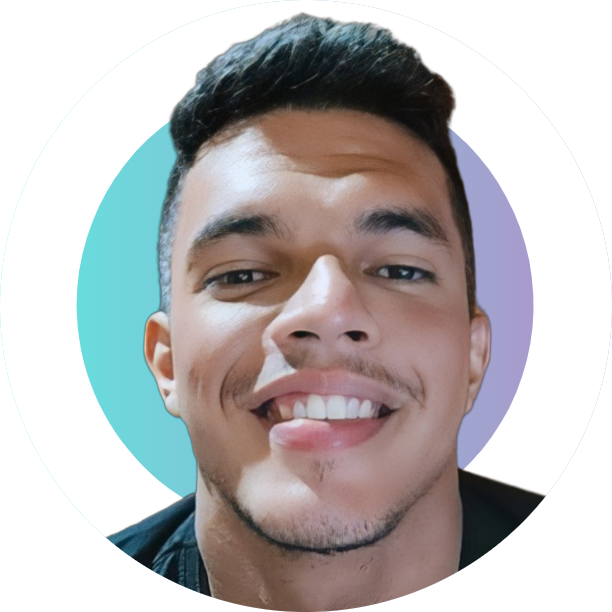
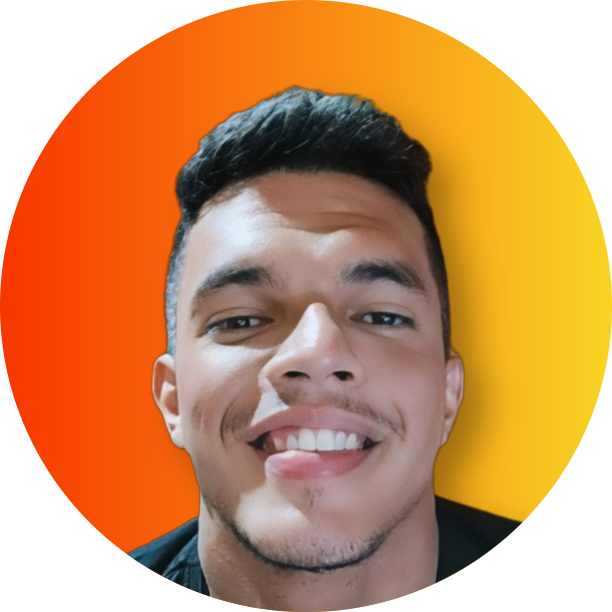
new layout

diff --git a/src/styles/global.css b/src/styles/global.css
@@ -13,12 +13,12 @@ body {
     align-items: center;
     justify-content: center;
     width: 100%;
-    height: 100vh;
-    background-image: radial-gradient(circle farthest-corner at 10% 20%, 
-    rgba(234, 249, 249, 0.67) 0.1%, rgba(239, 249, 251, 0.63) 90.1%);
+    background: rgb(25, 22, 33);
+    background: linear-gradient(90deg, rgba(25, 22, 33, 1) 0%, rgba(11, 10, 17, 1) 100%);
 }
 
 .containerSocialLinks {
+    margin-top: 2rem;
     display: flex;
     flex-direction: column;
     align-items: center;
@@ -31,19 +31,23 @@ body {
 .mainTitle {
     display: flex;
     flex-direction: column;
+    gap: 0.45rem;
     align-items: center;
     justify-content: center;
     margin-bottom: 3rem;
 }
 
 .mainTitle img {
+
+    width: 230px;
+
     @media (max-width: 480px) {
-        width: 200px;
+        width: 150px;
     }
 }
 
 .mainTitle h1 {
-    background: linear-gradient(to right, #A49FCD, #6ED6DB);
+    background: linear-gradient(to right, #F84C05, #F9C11E);
     -webkit-background-clip: text;
     /* Para navegadores WebKit (Chrome, Safari) */
     background-clip: text;
@@ -53,7 +57,14 @@ body {
 }
 
 .mainTitle span {
-    color: #2F2F2F;
+    color: #EEE;
+}
+
+#importantLinks {
+    margin-top: 1rem;
+    color: #F84C05;
+    font-weight: 600;
+    font-size: 1.2rem;
 }
 
 .socialLinks {
@@ -61,14 +72,14 @@ body {
     flex-direction: column;
     align-items: center;
     justify-content: space-around;
+    gap: 0.75rem;
     width: 100%;
-    height: 40vh;
 }
 
 .link {
     width: 330px;
     height: 65px;
-    background-color: rgba(255, 255, 255, 0.35);
+    background-color: #191621;
     display: flex;
     align-items: center;
     justify-content: space-between;
@@ -76,11 +87,14 @@ body {
     border-radius: 2rem;
     box-shadow: 5px 5px 10px rgba(0, 0, 0, 0.25);
     transition: all .3s ease-in-out;
-    color: #2F2F2F;
+    color: #EEE;
 
     &:hover {
         transform: scale(1.1);
-        color: #A49FCD;
+        color: #F84C05;
+        -webkit-box-shadow: 4px 16px 73px -29px rgba(248, 76, 5, 1);
+        -moz-box-shadow: 4px 16px 73px -29px rgba(248, 76, 5, 1);
+        box-shadow: 4px 16px 73px -29px rgba(248, 76, 5, 1);
     }
 }
 

diff --git a/index.html b/index.html
@@ -4,6 +4,7 @@
 <head>
     <meta charset="UTF-8">
     <meta name="viewport" content="width=device-width, initial-scale=1.0">
+    <link rel="shortcut icon" href="./src/icon/favicon.png" type="image/x-icon">
     <link rel="stylesheet" href="./src/styles/global.css">
     <title>Lucas Cordeiro</title>
 </head>
@@ -17,25 +18,32 @@
                 <img src="./src/images/profile-pic.png" alt="Foto de perfil" id="foto">
                 <h1>Lucas Cordeiro</h1>
                 <span>Desenvolvedor Front-end</span>
+                <span id="importantLinks">Links importantes:</span>
             </div>
 
             <div class="socialLinks">
                 <a href="https://github.com/JoaoLucasCordeiro" target="_blank">
                     <div class="link">
                         <h3>GitHub</h3>
-                        <i class="fa-brands fa-github" style="color: #A2A2CE;"></i>
+                        <i class="fa-brands fa-github" style="color: #F84C05;"></i>
                     </div>
                 </a>
                 <a href="https://www.linkedin.com/in/joaolucascordeiro/" target="_blank">
                     <div class="link">
                         <h3>Linkedin</h3>
-                        <i class="fa-brands fa-linkedin" style="color: #A2A2CE;"></i>
+                        <i class="fa-brands fa-linkedin" style="color: #F84C05;"></i>
                     </div>
                 </a>
-                <a href="mailto:joaolucascttprofissional@gmail.com">
+                <a href="https://lucascordeiro.vercel.app" target="_blank">
+                    <div class="link">
+                        <h3>Portfólio</h3>
+                        <i class="fa-regular fa-window-maximize" style="color: #F84C05;"></i>
+                    </div>
+                </a>
+                <a href="mailto:joaolucascttprofissional@gmail.com" >
                     <div class="link">
                         <h3>Email</h3>
-                        <i class="fa-solid fa-envelope" style="color: #A2A2CE;"></i>
+                        <i class="fa-solid fa-envelope" style="color: #F84C05;"></i>
                     </div>
                 </a>
             </div>
